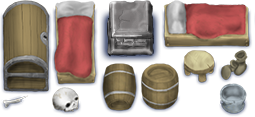
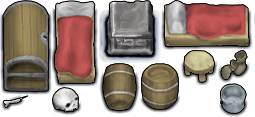
Added Warehouse and door. Modified coliseum props to be more consistent with others (outlines). Added InnProps spritesheet along with CSS file.

diff --git a/SRPG/SRPGContent/Zones/Village/Inn/InnProps.css b/SRPG/SRPGContent/Zones/Village/Inn/InnProps.css
@@ -1,0 +1,18 @@
+/* ----------------------------------------------------
+   created with http://www.codeandweb.com/texturepacker 
+   ----------------------------------------------------
+   $TexturePacker:SmartUpdate:c85e65601cd95e0da42bd23f2b257ff2:cdeeef50a43e1c6cc66e84eb4c905911:854eb3ecb0580820d4007f01082ad244$
+   ----------------------------------------------------
+
+   usage: <span class="{-spritename-} sprite"></span>
+
+   replace {-spritename-} with the sprite you like to use
+
+*/
+
+.sprite {display:inline-block; overflow:hidden; background-repeat: no-repeat;background-image:url(InnProps.png);}
+
+.BarStool {width:37px; height:49px; background-position: -568px -50px}
+.Barrel {width:41px; height:50px; background-position: -568px -0px}
+.Counter {width:378px; height:184px; background-position: -0px -0px}
+.Table {width:190px; height:177px; background-position: -378px -0px}
